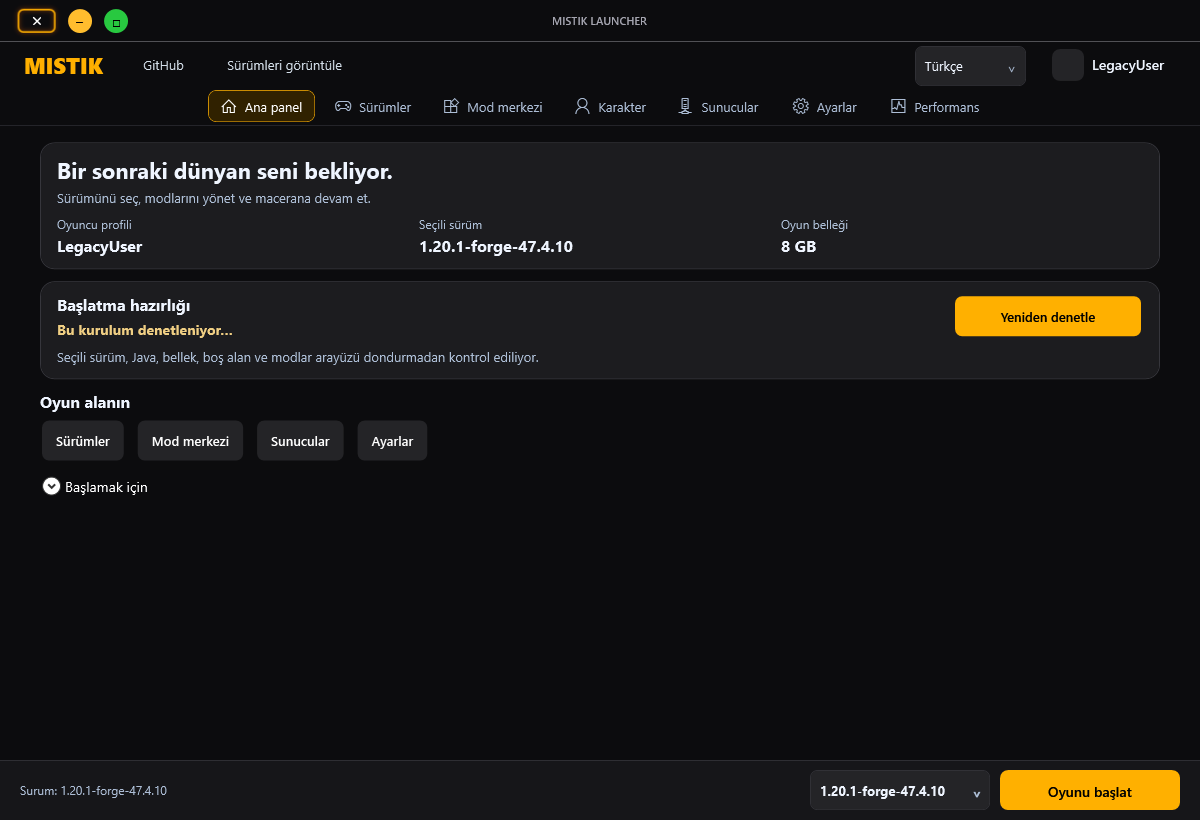
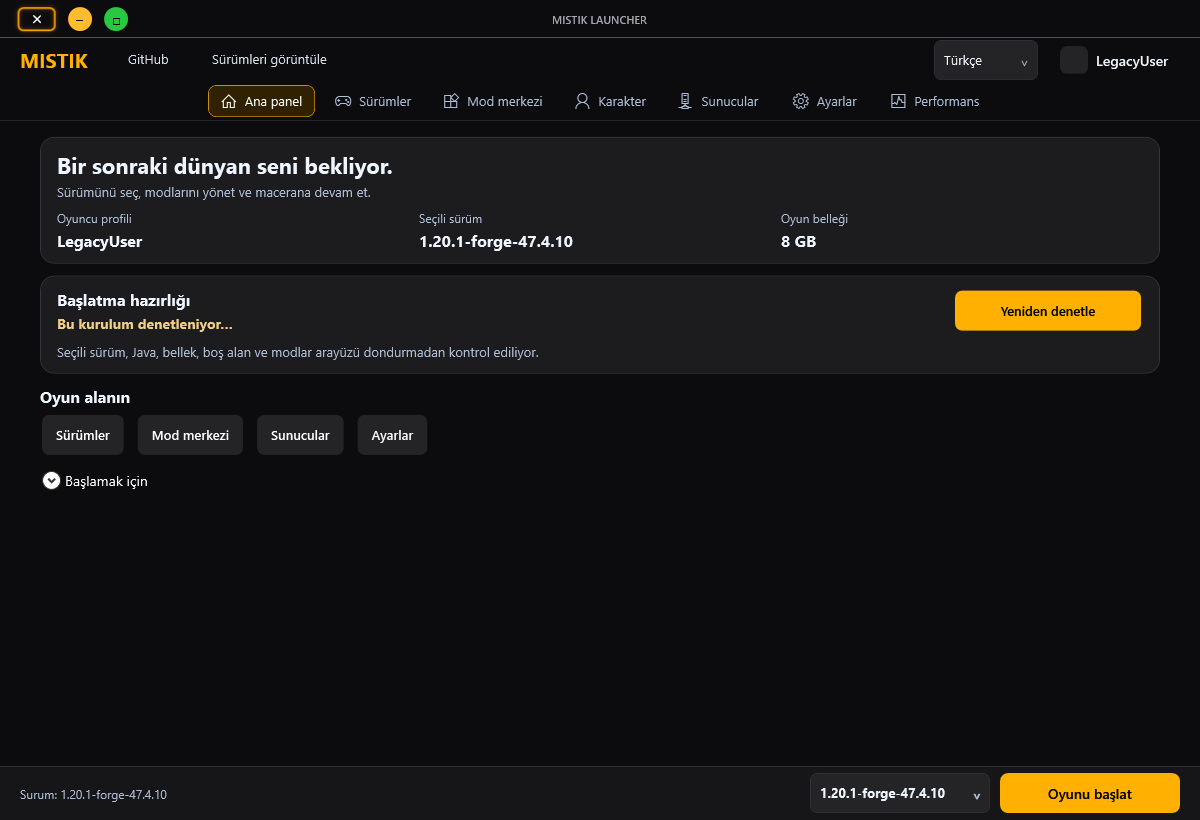
Release 6.2.28 with compact Modrinth-inspired mod center

diff --git a/MistikLauncher/MainWindow.xaml b/MistikLauncher/MainWindow.xaml
@@ -121,7 +121,7 @@
     </Window.Resources>
 
     <DockPanel x:Name="WindowSurface">
-        <Border x:Name="CaptionHost" DockPanel.Dock="Top" Height="42" Background="{DynamicResource Theme0D1727}" BorderBrush="{DynamicResource Theme365574}" BorderThickness="0,0,0,1">
+        <Border x:Name="CaptionHost" DockPanel.Dock="Top" Height="38" Background="{DynamicResource Theme0D1727}" BorderBrush="{DynamicResource Theme365574}" BorderThickness="0,0,0,1">
             <Grid>
                 <TextBlock x:Name="CaptionTitle" Text="MISTIK LAUNCHER" Foreground="#A5A5B0" FontSize="11" FontWeight="SemiBold" VerticalAlignment="Center" HorizontalAlignment="Center" IsHitTestVisible="False"/>
                 <StackPanel x:Name="CaptionButtons" Orientation="Horizontal" Margin="12,0" VerticalAlignment="Center" HorizontalAlignment="Right"/>
@@ -134,24 +134,24 @@
         <Grid.RowDefinitions>
             <RowDefinition Height="*"/>
             <RowDefinition Height="4"/>
-            <RowDefinition x:Name="ControlBarRow" Height="60"/>
+            <RowDefinition x:Name="ControlBarRow" Height="54"/>
         </Grid.RowDefinitions>
 
         <!-- ═══ CONTENT ═══════════════════════════════════════════════════════ -->
         <DockPanel Grid.Column="0" Grid.Row="0">
-            <Grid x:Name="ShellHeader" DockPanel.Dock="Top" Margin="24,4,24,2">
+            <Grid x:Name="ShellHeader" DockPanel.Dock="Top" Margin="20,2,20,2">
                 <Grid.ColumnDefinitions><ColumnDefinition/><ColumnDefinition Width="Auto"/></Grid.ColumnDefinitions>
                 <StackPanel Orientation="Horizontal" VerticalAlignment="Center">
-                    <TextBlock x:Name="LogoText" Text="MISTIK" FontSize="22" FontWeight="Black" Foreground="{DynamicResource Theme00A3FF}" VerticalAlignment="Center"/>
+                    <TextBlock x:Name="LogoText" Text="MISTIK" FontSize="20" FontWeight="Bold" Foreground="{DynamicResource Theme00A3FF}" VerticalAlignment="Center"/>
                     <Button x:Name="BtnDiscord" Content="GitHub" Style="{StaticResource NavBtn}" Margin="18,0,0,0"/>
                     <Button x:Name="BtnYoutube" Content="Releases" Style="{StaticResource NavBtn}"/>
                     <TextBlock x:Name="RelayStatusLbl" Visibility="Collapsed"/>
                 </StackPanel>
                 <StackPanel Grid.Column="1" Orientation="Horizontal" VerticalAlignment="Center">
-                    <ComboBox x:Name="LanguageBox" Width="110" Margin="0,0,14,0" AutomationProperties.Name="Türkçe / English"><ComboBoxItem Content="Türkçe"/><ComboBoxItem Content="English"/></ComboBox>
+                    <ComboBox x:Name="LanguageBox" Width="104" MinHeight="36" Margin="0,0,10,0" AutomationProperties.Name="Türkçe / English"><ComboBoxItem Content="Türkçe"/><ComboBoxItem Content="English"/></ComboBox>
                     <Button x:Name="ProfileButton" Style="{StaticResource NavBtn}" Padding="8,0" MinHeight="40" ToolTip="Profile">
                         <StackPanel Orientation="Horizontal" VerticalAlignment="Center">
-                            <Border Width="32" Height="32" CornerRadius="8" Background="{DynamicResource Theme203853}" ClipToBounds="True" Margin="0,0,8,0"><Image x:Name="AvatarImg" RenderOptions.BitmapScalingMode="NearestNeighbor" Stretch="UniformToFill"/></Border>
+                            <Border Width="28" Height="28" CornerRadius="7" Background="{DynamicResource Theme203853}" ClipToBounds="True" Margin="0,0,8,0"><Image x:Name="AvatarImg" RenderOptions.BitmapScalingMode="NearestNeighbor" Stretch="UniformToFill"/></Border>
                             <TextBlock x:Name="UserNameLbl" Foreground="#EFF5FF" FontSize="14" FontWeight="SemiBold" MaxWidth="180" TextTrimming="CharacterEllipsis" VerticalAlignment="Center"/>
                         </StackPanel>
                     </Button>

diff --git a/MistikLauncher/Pages/ModProjectView.cs b/MistikLauncher/Pages/ModProjectView.cs
@@ -27,7 +27,8 @@ public sealed class ModProjectView : Grid
     bool installing;
     Border? projectSummary;
     FrameworkElement? projectIcon;
-    TextBlock? projectTitle, projectDescription, projectCategories;
+    TextBlock? projectTitle, projectDescription;
+    FrameworkElement? projectCategories;
     string T(string tr, string en) => Localization.Language == "en" ? en : tr;
 
     public ModProjectView(MainWindow main, HttpClient client, string id, Action back, Func<string?, Task<bool>> install)
@@ -57,11 +58,11 @@ public sealed class ModProjectView : Grid
         tabs.ItemContainerStyle = (Style)System.Windows.Markup.XamlReader.Parse("""
             <Style xmlns="http://schemas.microsoft.com/winfx/2006/xaml/presentation" TargetType="TabItem">
               <Setter Property="Foreground" Value="#C6CBD2"/><Setter Property="Background" Value="#30343A"/>
-              <Setter Property="FontSize" Value="15"/><Setter Property="FontWeight" Value="SemiBold"/>
+              <Setter Property="FontSize" Value="14"/><Setter Property="FontWeight" Value="SemiBold"/>
               <Setter Property="MinWidth" Value="120"/><Setter Property="Margin" Value="0,0,8,0"/><Setter Property="MinHeight" Value="44"/>
               <Setter Property="BorderBrush" Value="Transparent"/><Setter Property="BorderThickness" Value="2"/>
               <Setter Property="Template"><Setter.Value><ControlTemplate TargetType="TabItem">
-                <Border Background="{TemplateBinding Background}" CornerRadius="18" Padding="18,8"
+                <Border Background="{TemplateBinding Background}" CornerRadius="8" Padding="16,8"
                         BorderBrush="{TemplateBinding BorderBrush}" BorderThickness="{TemplateBinding BorderThickness}">
                   <ContentPresenter ContentSource="Header" HorizontalAlignment="Center" VerticalAlignment="Center" RecognizesAccessKey="True"/>
                 </Border>
@@ -71,7 +72,7 @@ public sealed class ModProjectView : Grid
                 <Trigger Property="IsKeyboardFocused" Value="True"><Setter Property="BorderBrush" Value="#38E58E"/></Trigger></Style.Triggers>
             </Style>
             """);
-        Margin = new Thickness(22, 16, 22, 16);
+        Margin = new Thickness(20, 12, 20, 12);
         RowDefinitions.Add(new() { Height = GridLength.Auto });
         RowDefinitions.Add(new() { Height = new GridLength(1, GridUnitType.Star) });
         var backButton = PageHelpers.MkBtn(T("← Modlara dön", "← Back to mods"), "#28445E");
@@ -145,15 +146,30 @@ public sealed class ModProjectView : Grid
         ((TabItem)tabs.Items[1]).Content = new ScrollViewer { Content = versionPanel, VerticalScrollBarVisibility = ScrollBarVisibility.Auto };
     }
 
+    internal static WrapPanel CategoryBadges(IEnumerable<string> categories)
+    {
+        var values = categories.Take(5).ToArray();
+        var badges = new WrapPanel { Margin = new Thickness(0, 6, 0, 0), ToolTip = string.Join(" · ", values) };
+        foreach (var category in values)
+        {
+            var label = PageHelpers.Lbl(category, 12, "#BDC8D5", wrap: TextWrapping.NoWrap);
+            label.TextTrimming = TextTrimming.CharacterEllipsis; label.MaxWidth = 150;
+            badges.Children.Add(new Border { Child = label, Background = PageHelpers.HexBrush("#282E36"),
+                BorderBrush = PageHelpers.HexBrush("#39424D"), BorderThickness = new Thickness(1),
+                CornerRadius = new CornerRadius(7), Padding = new Thickness(8, 3, 8, 3), Margin = new Thickness(0, 0, 6, 5) });
+        }
+        return badges;
+    }
+
     void UpdateCompactLayout()
     {
         bool compact = ActualHeight > 0 && ActualHeight + Margin.Top + Margin.Bottom < 432;
-        Margin = compact ? new Thickness(16, 10, 16, 10) : new Thickness(22, 16, 22, 16);
+        Margin = compact ? new Thickness(16, 10, 16, 10) : new Thickness(20, 12, 20, 12);
         tabs.Padding = new Thickness(compact ? 8 : 12);
         if (projectSummary == null || projectIcon == null || projectTitle == null || projectDescription == null || projectCategories == null) return;
-        projectSummary.Padding = new Thickness(compact ? 8 : 16);
-        projectSummary.Margin = compact ? new Thickness(0, 6, 0, 6) : new Thickness(0, 12, 0, 14);
-        projectIcon.Width = projectIcon.Height = compact ? 48 : 92;
+        projectSummary.Padding = new Thickness(compact ? 8 : 14);
+        projectSummary.Margin = compact ? new Thickness(0, 6, 0, 6) : new Thickness(0, 10, 0, 12);
+        projectIcon.Width = projectIcon.Height = compact ? 48 : 76;
         projectIcon.Margin = new Thickness(0, 0, compact ? 12 : 18, 0);
         projectTitle.MaxHeight = compact ? 28 : 56;
         projectDescription.Visibility = projectCategories.Visibility = compact ? Visibility.Collapsed : Visibility.Visible;
@@ -195,8 +211,8 @@ public sealed class ModProjectView : Grid
             title.ToolTip = title.Text + "\n\n" + summary.Text;
             copy.Children.Add(summary);
             copy.Children.Add(PageHelpers.Lbl($"↓ {project["downloads"]?.Value<long>() ?? 0:N0}   ♡ {project["followers"]?.Value<long>() ?? 0:N0}", 13, "#ADBED6"));
-            var categories = PageHelpers.Lbl(string.Join("  ·  ", (project["categories"] as JArray ?? new()).Select(value => value.ToString())), 12, "#ADBED6", wrap: TextWrapping.NoWrap);
-            categories.TextTrimming = TextTrimming.CharacterEllipsis; categories.ToolTip = categories.Text; copy.Children.Add(categories);
+            var categories = CategoryBadges((project["categories"] as JArray ?? new()).Select(value => value.ToString()));
+            copy.Children.Add(categories);
             projectCategories = categories;
             var latest = InstallButton(null); latest.Name = "ProjectInstallButton"; SetColumn(latest, 2); header.Children.Add(latest);
             projectSummary = new Border { Name = "ProjectSummary", Child = header, Padding = new Thickness(16),

diff --git a/MistikLauncher/Pages/VersionAndModPages.cs b/MistikLauncher/Pages/VersionAndModPages.cs
@@ -734,9 +734,9 @@ namespace MistikLauncher.Pages
             _client = client ?? Http;
 
             Background = Brushes.Transparent;
-            var sp = new StackPanel { Margin = new Thickness(32, 20, 32, 20) };
-            sp.Children.Add(PageHelpers.Lbl("modCenterTitle", 28, "#FFFFFF", true));
-            sp.Children.Add(PageHelpers.Lbl("modCenterIntro", 14, "#A0A0A0"));
+            var sp = new StackPanel { Margin = new Thickness(20, 16, 20, 16) };
+            sp.Children.Add(PageHelpers.Lbl("modCenterTitle", 24, "#FFFFFF", true));
+            sp.Children.Add(PageHelpers.Lbl("modCenterIntro", 13, "#A0A0A0"));
 
             var clientCard = PageHelpers.Card("#192C46", 14, "#365574");
             clientCard.Margin = new Thickness(0, 14, 0, 10);
@@ -916,6 +916,7 @@ namespace MistikLauncher.Pages
 
             Grid.SetColumn(searchBtn,1); Grid.SetColumn(folderBtn,2); Grid.SetColumn(importBtn,3);
             searchRow.Children.Add(_searchBox); searchRow.Children.Add(searchBtn); searchRow.Children.Add(folderBtn); searchRow.Children.Add(importBtn);
+            foreach (var button in new[] { searchBtn, folderBtn, importBtn }) button.Padding = new Thickness(12, 6, 12, 6);
             sp.Children.Add(searchRow);
 
             var catalogControls = new DockPanel { Margin = new Thickness(0, 0, 0, 12) };
@@ -1152,18 +1153,22 @@ namespace MistikLauncher.Pages
                     var mname = name; var cId = modId;
                     var canInstall = SearchResultSupportsProfile(hit, game, loader);
 
-                    var card = PageHelpers.Card("#25282E", 16, "#3A3F46", margin: new Thickness(0, 7, 0, 7));
-                    var grid = new Grid { Margin = new Thickness(16, 12, 16, 12) };
+                    var card = PageHelpers.Card("#1B2027", 12, "#343C47", margin: new Thickness(0, 5, 0, 5));
+                    var grid = new Grid { Margin = new Thickness(14, 12, 14, 12) };
                     grid.ColumnDefinitions.Add(new ColumnDefinition());
                     grid.ColumnDefinitions.Add(new ColumnDefinition { Width = GridLength.Auto });
 
                     var info = new StackPanel();
-                    info.Children.Add(PageHelpers.Lbl(name, 20, "#FFFFFF", true, wrap: TextWrapping.Wrap));
-                    info.Children.Add(PageHelpers.Lbl(desc, 14, "#ADBED6", wrap: TextWrapping.Wrap));
-                    info.Children.Add(PageHelpers.Lbl($"↓ {dl:N0}   ·   {hit["author"]}   ·   Modrinth", 12, "#ADBED6"));
-                    info.Children.Add(PageHelpers.Lbl(string.Join("  ·  ", (hit["categories"] as JArray ?? new()).Take(6).Select(value => value.ToString())), 12, "#ADBED6", wrap: TextWrapping.Wrap));
+                    var title = PageHelpers.Lbl(name, 18, "#F2F5F9", true, wrap: TextWrapping.Wrap);
+                    title.LineHeight = 24; title.MaxHeight = 48; title.TextTrimming = TextTrimming.CharacterEllipsis; title.ToolTip = name;
+                    var description = PageHelpers.Lbl(desc, 13, "#ADBED6", wrap: TextWrapping.Wrap);
+                    description.LineHeight = 19; description.MaxHeight = 38; description.TextTrimming = TextTrimming.CharacterEllipsis; description.ToolTip = desc;
+                    info.Children.Add(title); info.Children.Add(description);
+                    var metadata = PageHelpers.Lbl($"↓ {dl:N0}   ·   {hit["author"]}   ·   Modrinth", 11, "#98A8BB");
+                    metadata.TextTrimming = TextTrimming.CharacterEllipsis; metadata.ToolTip = metadata.Text; info.Children.Add(metadata);
+                    info.Children.Add(ModProjectView.CategoryBadges((hit["categories"] as JArray ?? new()).Select(value => value.ToString())));
                     var summary = new Grid(); summary.ColumnDefinitions.Add(new ColumnDefinition { Width = GridLength.Auto }); summary.ColumnDefinitions.Add(new ColumnDefinition());
-                    summary.Children.Add(ModProjectView.Icon(hit["icon_url"]?.ToString(), 84)); Grid.SetColumn(info, 1); summary.Children.Add(info);
+                    summary.Children.Add(ModProjectView.Icon(hit["icon_url"]?.ToString(), 68)); Grid.SetColumn(info, 1); summary.Children.Add(info);
                     var details = new Button { Content = summary, Background = Brushes.Transparent, Foreground = Brushes.White, BorderThickness = new Thickness(0),
                         HorizontalContentAlignment = HorizontalAlignment.Stretch, Padding = new Thickness(0), Cursor = System.Windows.Input.Cursors.Hand,
                         Template = (ControlTemplate)System.Windows.Markup.XamlReader.Parse("""

diff --git a/Validation/WindowScalingUiTests.cs b/Validation/WindowScalingUiTests.cs
@@ -21,6 +21,12 @@ static class WindowScalingUiTests
                 var launch = (Button)window.FindName("BtnLaunch");
                 var version = (ComboBox)window.FindName("VerBox");
                 var nav = (WrapPanel)window.FindName("QuickBarPanel");
+                var caption = (Border)window.FindName("CaptionHost");
+                var chrome = System.Windows.Shell.WindowChrome.GetWindowChrome(window);
+                var launchRow = (RowDefinition)window.FindName("ControlBarRow");
+                double pixelTolerance = 1 / System.Windows.Media.VisualTreeHelper.GetDpi(caption).DpiScaleY;
+                if (caption.ActualHeight > 38 + pixelTolerance || chrome.CaptionHeight != caption.Height || launchRow.ActualHeight > 54 + pixelTolerance)
+                    throw new Exception($"Compact bars must preserve content space and match the native drag region: caption={caption.ActualHeight}/{caption.Height}, chrome={chrome.CaptionHeight}, footer={launchRow.ActualHeight}.");
                 if (frame.ActualHeight < 250 || frame.TranslatePoint(new Point(0, frame.ActualHeight), root).Y > version.TranslatePoint(new Point(), root).Y)
                     throw new Exception("Compact shell must preserve a usable content viewport above the launch bar.");
                 if (launch.TranslatePoint(new Point(launch.ActualWidth, launch.ActualHeight), root).X > size.Width ||

diff --git a/MistikLauncher/Core.cs b/MistikLauncher/Core.cs
@@ -214,6 +214,14 @@ namespace MistikLauncher
 
         public static readonly List<ChangelogEntry> Changelog = new()
         {
+            new("v6.2.28","2026-10-14","#00D4AA", new[]{
+                "Sade ve kompakt arayüz: daha ince üst/alt çubuklar, modlara ayrılan daha geniş alan.",
+                "Modrinth tarzı resimli kartlar, küçük kategori etiketleri ve hizalı açıklama/sürüm/galeri sekmeleri.",
+                "Uzun mod başlıkları ve açıklamaları kartları taşırmaz; tam metin araç ipucunda görünür.",
+                "A compact interface with slimmer window and launch bars leaves more room for mods.",
+                "Modrinth-inspired illustrated cards, category badges and aligned description/version/gallery tabs.",
+                "Long mod titles and descriptions stay bounded, with complete text available in tooltips."
+            }),
             new("v6.2.27","2026-10-13","#00D4AA", new[]{
                 "Dar pencerelerde mod yedekleme, geri yükleme ve temizleme düğmeleri içerik genişliğine sığar.",
                 "Boş veya 128 MiB üzerindeki yerel mod dosyaları kurulmadan reddedilir; kopyalama sırasında kaynak korunur.",

diff --git a/MistikLauncher/MainWindow.xaml.cs b/MistikLauncher/MainWindow.xaml.cs
@@ -330,11 +330,11 @@ namespace MistikLauncher
         void UpdateCompactShell()
         {
             bool compact = WindowSurface.ActualWidth > 0 && WindowSurface.ActualWidth < 1050;
-            ShellHeader.Margin = compact ? new Thickness(16, 4, 16, 2) : new Thickness(24, 4, 24, 2);
+            ShellHeader.Margin = compact ? new Thickness(16, 2, 16, 2) : new Thickness(20, 2, 20, 2);
             UserNameLbl.MaxWidth = compact ? 120 : 180;
             BtnDiscord.Padding = BtnYoutube.Padding = new Thickness(compact ? 10 : 18, 0, compact ? 10 : 18, 0);
             BtnDiscord.Visibility = BtnYoutube.Visibility = WindowSurface.ActualWidth > 0 && WindowSurface.ActualWidth < 800 ? Visibility.Collapsed : Visibility.Visible;
-            ControlBarRow.Height = new GridLength(WindowSurface.ActualHeight > 0 && WindowSurface.ActualHeight < 720 ? 52 : 60);
+            ControlBarRow.Height = new GridLength(WindowSurface.ActualHeight > 0 && WindowSurface.ActualHeight < 720 ? 50 : 54);
             foreach (var button in quickButtons.Values)
             {
                 button.Padding = new Thickness(compact ? 8 : 12, 0, compact ? 8 : 12, 0);

diff --git a/MistikLauncher/WindowAppearance.cs b/MistikLauncher/WindowAppearance.cs
@@ -43,7 +43,7 @@ public partial class MainWindow
         string style=WindowButtonStyles.Contains(Config.WindowButtons)?Config.WindowButtons:"MacOS";
         CaptionHost.Visibility=Visibility.Visible;
         WindowSurface.Margin=WindowState==WindowState.Maximized?new Thickness(6):new Thickness(0);
-        WindowChrome.SetWindowChrome(this,new WindowChrome { CaptionHeight=42,ResizeBorderThickness=new Thickness(6),GlassFrameThickness=new Thickness(0),CornerRadius=new CornerRadius(0),UseAeroCaptionButtons=false });
+        WindowChrome.SetWindowChrome(this,new WindowChrome { CaptionHeight=38,ResizeBorderThickness=new Thickness(6),GlassFrameThickness=new Thickness(0),CornerRadius=new CornerRadius(0),UseAeroCaptionButtons=false });
         if(WindowStyle!=WindowStyle.None) WindowStyle=WindowStyle.None;
         CaptionButtons.HorizontalAlignment=style=="MacOS"?HorizontalAlignment.Left:HorizontalAlignment.Right;
         WindowChrome.SetIsHitTestVisibleInChrome(CaptionButtons,true);

diff --git a/docs/RELEASE-6.2.28.md b/docs/RELEASE-6.2.28.md
@@ -1,0 +1,17 @@
+## Türkçe
+
+- Sade ve Modrinth tarzını birleştiren kompakt mod merkezi: daha küçük resimli kartlar, kategori etiketleri ve dengeli boşluklar.
+- Uzun başlıklar ve açıklamalar kart yüksekliğini sınırlı tutar; tam metin araç ipucunda görünür. Uyumlu sürüm seçimi ve kurulum davranışı korunur.
+- Açıklama, Sürümler ve Galeri sekmeleri daha sade köşeler ve aynı hizada kontrollerle sunulur.
+- Pencere başlığı ve alt başlatma çubuğu inceltildi; sürükleme alanı yeni başlık ölçüsüyle eşleşir. Dar pencerelerde içerik alanı korunur.
+
+Microsoft girişi ve sertifika çalışmalarının iptal edilmiş taslakları bu sürüme dahil edilmemiştir. Oyun içi oynanış ve fiziksel ekranlar arası DPI geçişleri ayrıca denenmedi.
+
+## English
+
+- A compact mod center combines a minimal layout with Modrinth-inspired illustrated cards, category badges and consistent spacing.
+- Long titles and descriptions stay bounded, with full text in tooltips. Compatible version selection and installation behavior remain available.
+- Description, Versions and Gallery tabs use simpler corners and aligned controls.
+- Slimmer caption and launch bars preserve content space, with the native drag region matching the caption size.
+
+Canceled Microsoft login and certificate drafts are excluded. Actual Minecraft gameplay and physical mixed-DPI display transitions were not tested separately.

diff --git a/README.md b/README.md
@@ -13,9 +13,9 @@
 - **Kişiselleştirme:** 20 renk teması, 16 pencere düğmesi stili, skin ve yerel sunucu araçları.
 - **Güncelleme ve kurtarma:** Güncelleme/sürüm düşürme Ayarlar’da; onarım kurucuda. Oyuncu ayarları, modlar ve dünyalar korunur.
 
-![Tema ve pencere düğmesi tasarımları](docs/screenshots/window-styles-tr.png)
+![Kompakt mod merkezi](docs/screenshots/mod-catalog.png)
 
-*Görüntüler test profiliyle alınmış gerçek launcher arayüzüdür.*
+*Görüntüler test profiliyle alınmış gerçek arayüzdür. Mod kataloğu görselinde örnek test verileri kullanılır.*
 
 ## Hızlı başlangıç
 
